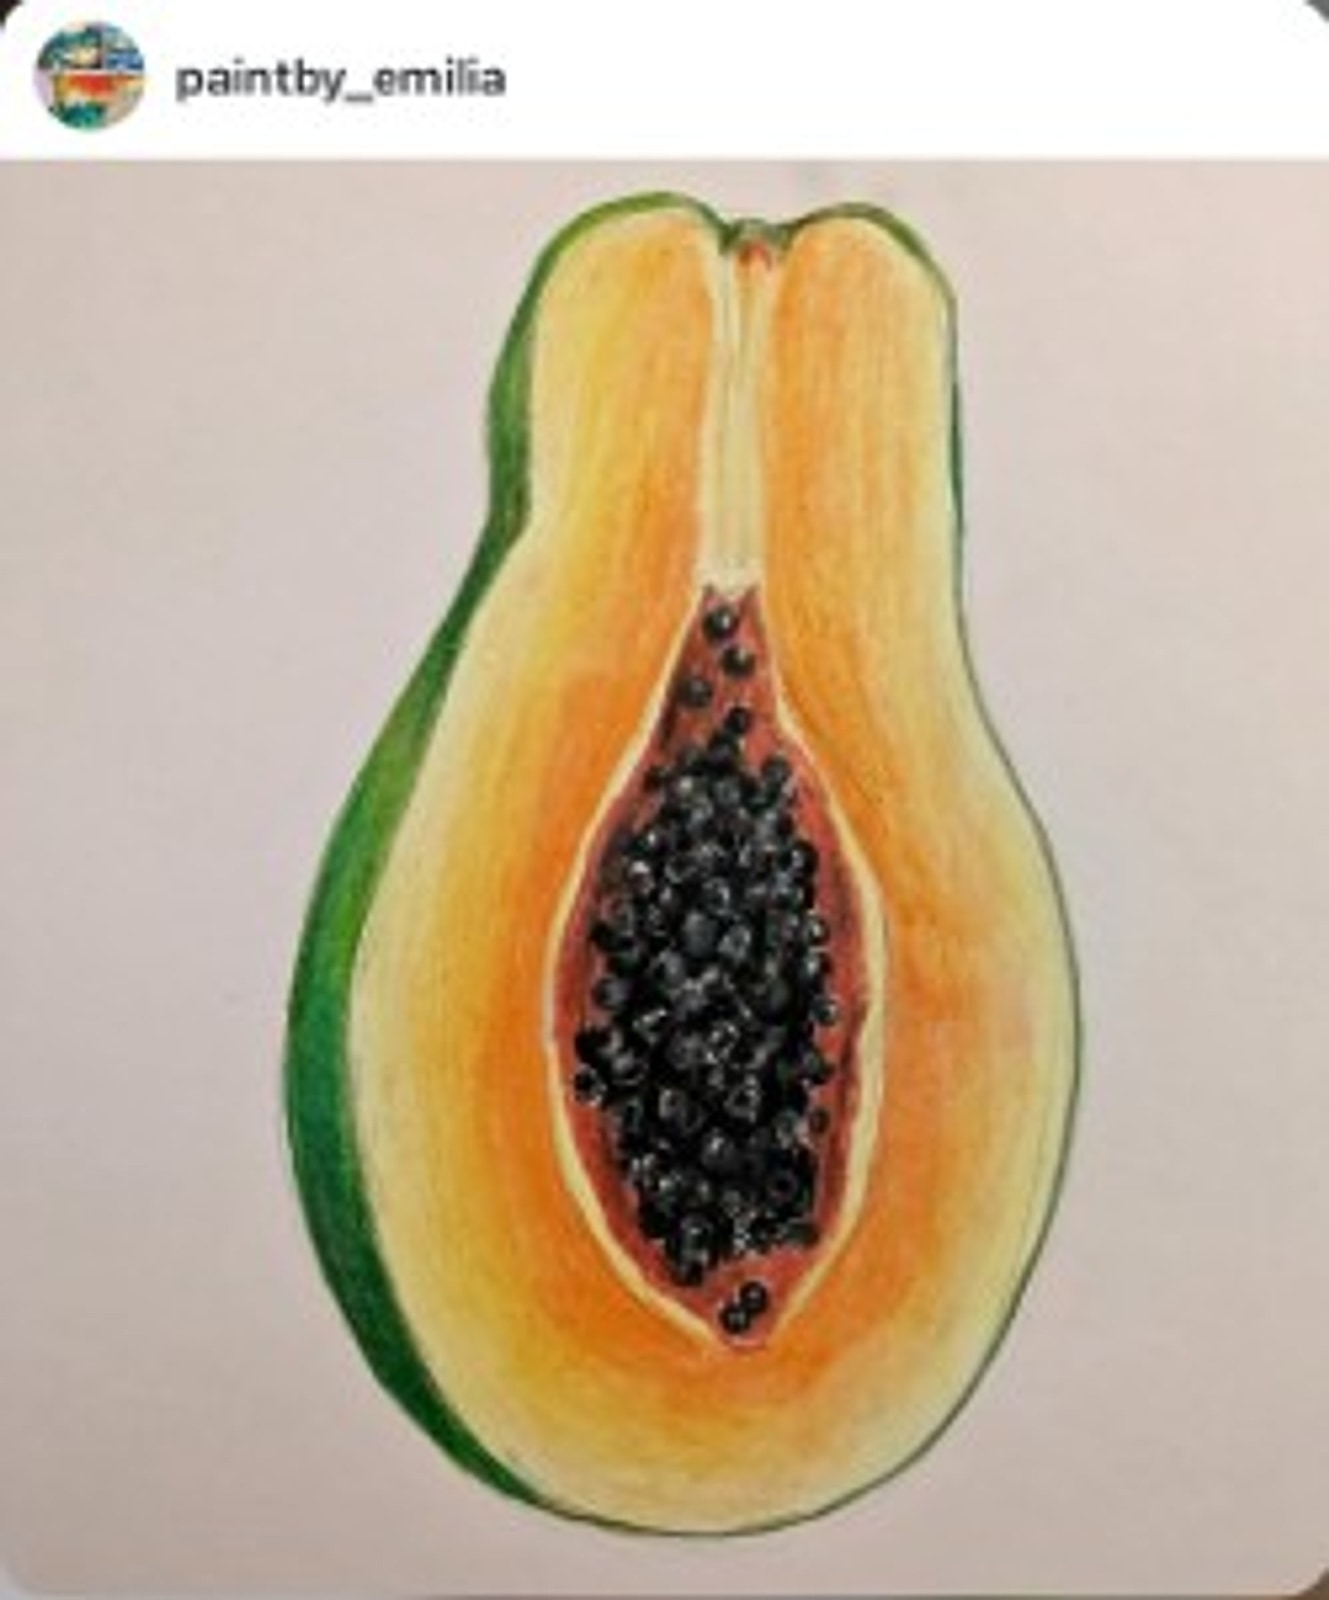
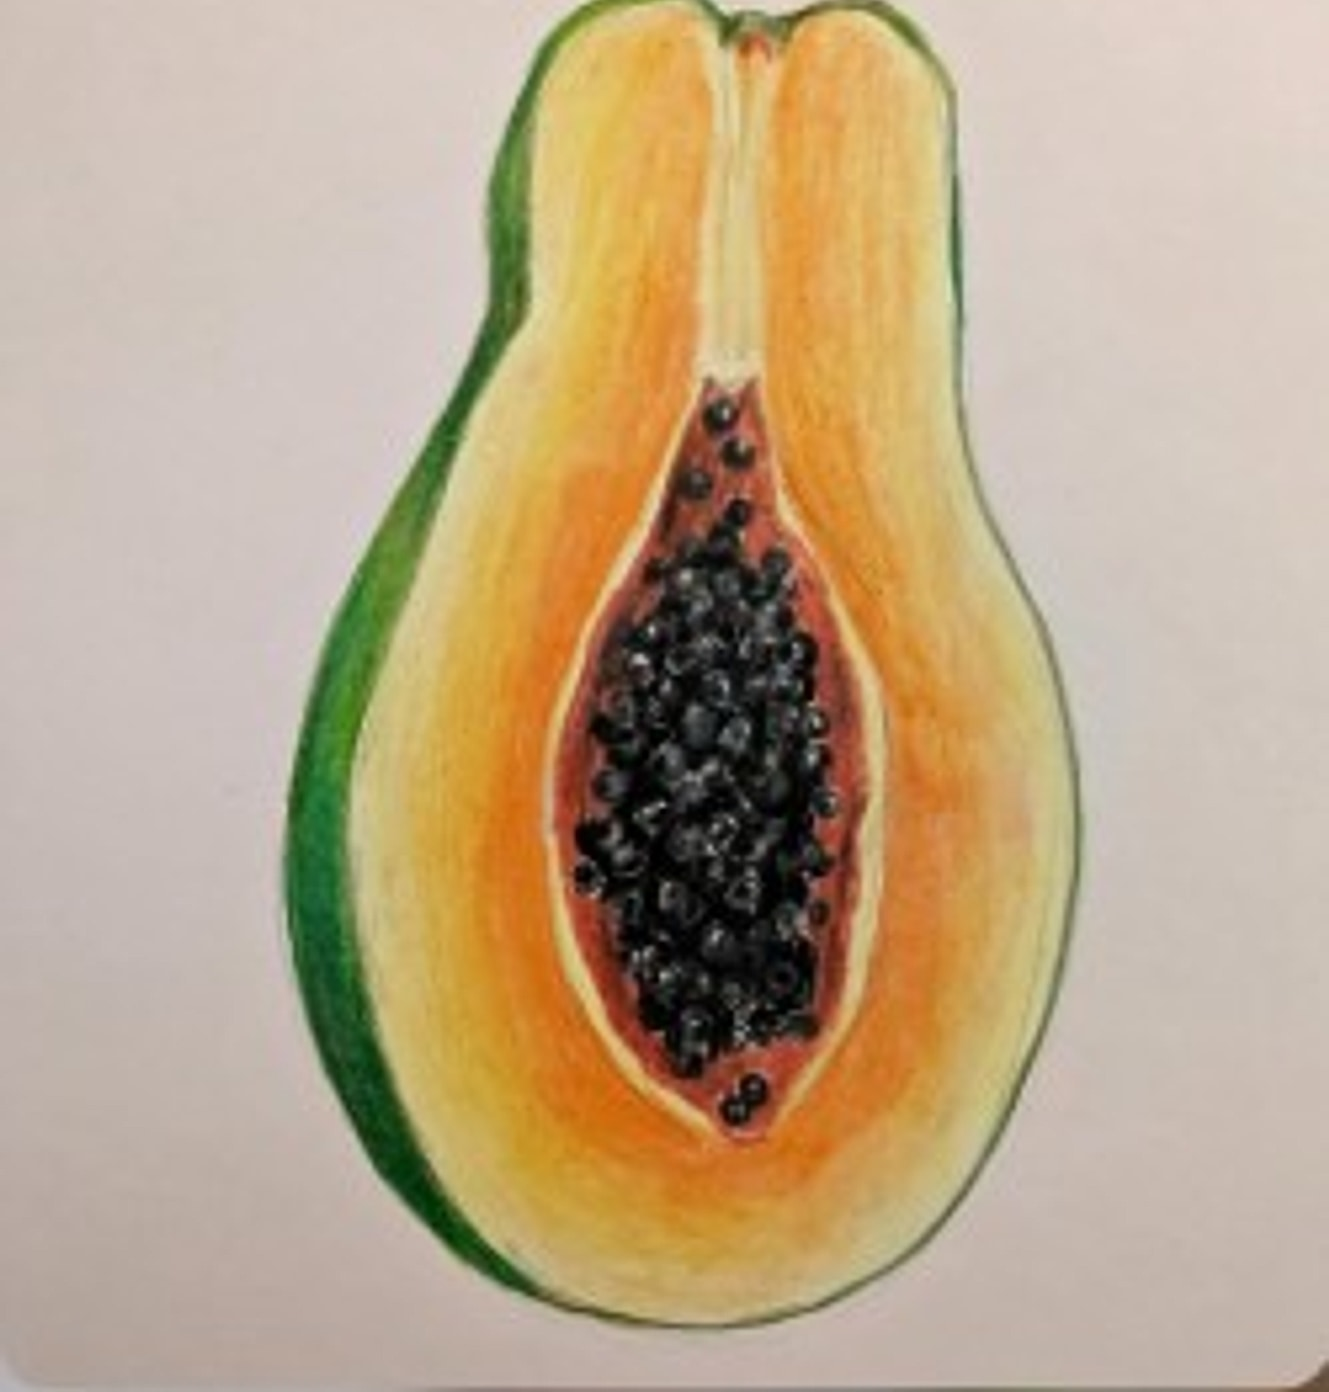
Dedupe folders, drop Stamps, dissolve Paintings/Objects, crop IG strips
- No piece appears twice inside the same folder anymore. The cover image
  is rendered as the tile itself; the inside list contains the OTHER
  pieces only.
- Removed work-005 (Stamps) entirely — file deleted, no entry.
- Dissolved "Paintings" folder. Fuji-pink, Volcano, Studio-in-oil,
  Tree-of-roots and Sunset-block are now five standalone tiles.
- Dissolved "Objects & Mixed Media" folder. Reclining-figure, Red-yarn,
  Marbled-pattern, Doll-by-the-harbour and Lion-door are now five
  standalone tiles.
- Walnuts: confirmed they are NOT in Still Life (own folder).
- Cropped work-022 (Papaya) and work-023 (Campari) by ~13% from the
  top to remove the "paintby_emilia" Instagram username strip so they
  no longer read as screenshots.

Layout now: Hauptwerk (Hikikomori) + 7 themed folders + 13 standalones.

diff --git a/src/data/works.ts b/src/data/works.ts
@@ -1,9 +1,10 @@
 /**
- * Artwork catalogue — everything organised into clickable folders.
+ * Artwork catalogue. No duplicates inside a folder. Hauptwerk +
+ * themed folders + standalone tiles for the looser-themed pieces.
  *
- * Hero/Hauptwerk uses /artwork/hikikomori.jpg (kept at 1440×1920).
- * All other images live under /artwork/works/ and are sourced from
- * scripts/extract-attachments.mjs (user pastes only).
+ * All images live under /artwork/works/ (user pastes, upscaled to
+ * ~1200×1600 by scripts/upscale-works.mjs), except the Hauptwerk
+ * cover /artwork/hikikomori.jpg which is the 1440×1920 IG-CDN pull.
  */
 
 export type Item = {
@@ -37,7 +38,10 @@ export type Series = {
 export type Entry = Work | Series;
 
 export const entries: Entry[] = [
-  // ── 01 · HAUPTWERK — Hikikomori ───────────────────────────────────────
+  // ── HAUPTWERK — Hikikomori ────────────────────────────────────────────
+  // Cover = the high-res IG canvas. The folder shows context shots only
+  // (close-up, on the easel, detail, on the street). No duplicate of
+  // the cover image inside.
   {
     kind: "series",
     id: "hikikomori",
@@ -47,16 +51,16 @@ export const entries: Entry[] = [
     size: "featured",
     cover: "/artwork/hikikomori.jpg",
     items: [
-      { src: "/artwork/hikikomori.jpg", title: "Hikikomori — canvas" },
-      { src: "/artwork/works/work-050.jpg", title: "Close-up · brush strokes" },
       { src: "/artwork/works/work-052.jpg", title: "Full canvas, on easel" },
+      { src: "/artwork/works/work-050.jpg", title: "Close-up · brush strokes" },
       { src: "/artwork/works/work-051.jpg", title: "Studio · angle" },
       { src: "/artwork/works/work-053.jpg", title: "Detail" },
       { src: "/artwork/works/work-054.jpg", title: "On the street" },
     ],
   },
 
-  // ── 02 · LOUVRE + COLLAGE — statues with collage interventions ────────
+  // ── LOUVRE + COLLAGE ──────────────────────────────────────────────────
+  // Cover = Venus pink. No duplicate Venus inside.
   {
     kind: "series",
     id: "louvre",
@@ -67,13 +71,14 @@ export const entries: Entry[] = [
     cover: "/artwork/works/work-025.jpg",
     badge: "Available as print",
     items: [
-      { src: "/artwork/works/work-025.jpg", title: "Venus, pink" },
       { src: "/artwork/works/work-058.jpg", title: "Cupid, gold" },
-      { src: "/artwork/works/work-057.jpg", title: "Venus, pink · variant" },
+      { src: "/artwork/works/work-057.jpg", title: "Venus, alt angle" },
     ],
   },
 
-  // ── 03 · DRAWINGS & STUDIES — life drawing + Louvre studies ───────────
+  // ── DRAWINGS & STUDIES ────────────────────────────────────────────────
+  // Cover = bearded sculpture (work-033). Cover is intentionally omitted
+  // from the inside list to avoid duplication.
   {
     kind: "series",
     id: "drawings",
@@ -83,7 +88,6 @@ export const entries: Entry[] = [
     size: "tall",
     cover: "/artwork/works/work-033.jpg",
     items: [
-      { src: "/artwork/works/work-033.jpg", title: "Bearded sculpture" },
       { src: "/artwork/works/work-032.jpg", title: "Head with curls" },
       { src: "/artwork/works/work-035.jpg", title: "Apollo, three-quarter" },
       { src: "/artwork/works/work-034.jpg", title: "Profile, red" },
@@ -96,7 +100,8 @@ export const entries: Entry[] = [
     ],
   },
 
-  // ── 04 · TRAVEL POSTCARDS — country panels ────────────────────────────
+  // ── TRAVEL POSTCARDS ──────────────────────────────────────────────────
+  // Cover = Japan panels. Inside list excludes the cover.
   {
     kind: "series",
     id: "travel",
@@ -106,7 +111,6 @@ export const entries: Entry[] = [
     size: "wide",
     cover: "/artwork/works/work-015.jpg",
     items: [
-      { src: "/artwork/works/work-015.jpg", title: "Japan" },
       { src: "/artwork/works/work-012.jpg", title: "Brazil · Rio" },
       { src: "/artwork/works/work-014.jpg", title: "New York · Jazz" },
       { src: "/artwork/works/work-016.jpg", title: "Paris" },
@@ -116,7 +120,8 @@ export const entries: Entry[] = [
     ],
   },
 
-  // ── 05 · TYPOGRAPHY & PATTERN ─────────────────────────────────────────
+  // ── TYPOGRAPHY & PATTERN ──────────────────────────────────────────────
+  // Cover = FACE. Inside list excludes the cover.
   {
     kind: "series",
     id: "typography",
@@ -126,7 +131,6 @@ export const entries: Entry[] = [
     size: "square",
     cover: "/artwork/works/work-010.jpg",
     items: [
-      { src: "/artwork/works/work-010.jpg", title: "FACE" },
       { src: "/artwork/works/work-009.jpg", title: "AAAA?" },
       { src: "/artwork/works/work-011.jpg", title: "LOVE" },
       { src: "/artwork/works/work-006.jpg", title: "Pattern, blue" },
@@ -134,7 +138,8 @@ export const entries: Entry[] = [
     ],
   },
 
-  // ── 06 · STILL LIFE — fruit + objects ─────────────────────────────────
+  // ── STILL LIFE — no walnuts (those have their own folder) ────────────
+  // Cover = apple/grapes/pear. Inside list excludes the cover.
   {
     kind: "series",
     id: "still-life",
@@ -144,7 +149,6 @@ export const entries: Entry[] = [
     size: "tall",
     cover: "/artwork/works/work-040.jpg",
     items: [
-      { src: "/artwork/works/work-040.jpg", title: "Apple, grapes, pear" },
       { src: "/artwork/works/work-046.jpg", title: "Pears" },
       { src: "/artwork/works/work-003.jpg", title: "Blueberries" },
       { src: "/artwork/works/work-004.jpg", title: "Half a lemon" },
@@ -155,7 +159,8 @@ export const entries: Entry[] = [
     ],
   },
 
-  // ── 07 · CATS ─────────────────────────────────────────────────────────
+  // ── CATS ──────────────────────────────────────────────────────────────
+  // Cover = Chinese-text ramen cat. Inside list excludes the cover.
   {
     kind: "series",
     id: "cats",
@@ -164,83 +169,136 @@ export const entries: Entry[] = [
     year: "2024 — 2025",
     size: "square",
     cover: "/artwork/works/work-001.jpg",
-    items: [
-      { src: "/artwork/works/work-001.jpg", title: "你能读一下这个吗?" },
-      { src: "/artwork/works/work-002.jpg", title: "Cat, from behind" },
-    ],
+    items: [{ src: "/artwork/works/work-002.jpg", title: "Cat, from behind" }],
   },
 
-  // ── 08 · WALNUTS — object studies ─────────────────────────────────────
+  // ── WALNUTS ───────────────────────────────────────────────────────────
+  // Cover = first walnut composition. Inside list excludes the cover.
   {
     kind: "series",
     id: "walnuts",
     title: "Walnuts",
-    category: "Object",
+    category: "Object · Study",
     year: "2025",
     size: "square",
     cover: "/artwork/works/work-045.jpg",
     items: [
-      { src: "/artwork/works/work-045.jpg", title: "Walnut composition" },
       { src: "/artwork/works/work-047.jpg", title: "Walnut composition · 2" },
       { src: "/artwork/works/work-048.jpg", title: "Blue walnuts" },
       { src: "/artwork/works/work-056.jpg", title: "Walnut · detail" },
     ],
   },
 
-  // ── 09 · OBJECTS & MIXED MEDIA — sculptural / photographic works ──────
+  // ── STANDALONE WORKS — formerly "Paintings" and "Objects & Mixed Media"
+  // folders, now broken out into individual tiles per request.
   {
-    kind: "series",
-    id: "objects",
-    title: "Objects & Mixed Media",
-    category: "Clay · Photography · Mixed",
-    year: "2024 — 2025",
-    size: "square",
-    cover: "/artwork/works/work-038.jpg",
-    items: [
-      { src: "/artwork/works/work-038.jpg", title: "Reclining figure" },
-      { src: "/artwork/works/work-041.jpg", title: "Red yarn" },
-      { src: "/artwork/works/work-039.jpg", title: "Marbled pattern" },
-      { src: "/artwork/works/work-036.jpg", title: "Doll by the harbour" },
-      { src: "/artwork/works/work-028.jpg", title: "Lion door · Vienna" },
-    ],
-  },
-
-  // ── 10 · PAINTINGS — small canvases & abstract ────────────────────────
-  {
-    kind: "series",
-    id: "paintings",
-    title: "Paintings",
-    category: "Acrylic · Oil",
-    year: "2024 — 2025",
+    kind: "work",
+    src: "/artwork/works/work-044.jpg",
+    title: "Fuji, pink",
+    category: "Acrylic · Japan",
+    year: "2025",
     size: "wide",
-    cover: "/artwork/works/work-044.jpg",
-    items: [
-      { src: "/artwork/works/work-044.jpg", title: "Fuji, pink" },
-      { src: "/artwork/works/work-008.jpg", title: "Volcano" },
-      { src: "/artwork/works/work-043.jpg", title: "Studio, in oil" },
-      { src: "/artwork/works/work-024.jpg", title: "Tree of roots" },
-      { src: "/artwork/works/work-055.jpg", title: "Sunset block · 3D" },
-    ],
+  },
+  {
+    kind: "work",
+    src: "/artwork/works/work-008.jpg",
+    title: "Volcano",
+    category: "Acrylic",
+    year: "2024",
+    size: "square",
+  },
+  {
+    kind: "work",
+    src: "/artwork/works/work-043.jpg",
+    title: "Studio, in oil",
+    category: "Oil · Abstract",
+    year: "2025",
+    size: "tall",
+  },
+  {
+    kind: "work",
+    src: "/artwork/works/work-024.jpg",
+    title: "Tree of roots",
+    category: "Mixed media",
+    year: "2024",
+    size: "square",
+  },
+  {
+    kind: "work",
+    src: "/artwork/works/work-055.jpg",
+    title: "Sunset block",
+    category: "Acrylic + 3D paint",
+    year: "2025",
+    size: "tall",
+  },
+  {
+    kind: "work",
+    src: "/artwork/works/work-038.jpg",
+    title: "Reclining figure",
+    category: "Clay · Mixed media",
+    year: "2025",
+    size: "square",
+  },
+  {
+    kind: "work",
+    src: "/artwork/works/work-041.jpg",
+    title: "Red yarn",
+    category: "Object",
+    year: "2025",
+    size: "square",
+  },
+  {
+    kind: "work",
+    src: "/artwork/works/work-039.jpg",
+    title: "Marbled pattern",
+    category: "Marbling",
+    year: "2025",
+    size: "square",
+  },
+  {
+    kind: "work",
+    src: "/artwork/works/work-036.jpg",
+    title: "Doll by the harbour",
+    category: "Photography",
+    year: "2024",
+    size: "tall",
+  },
+  {
+    kind: "work",
+    src: "/artwork/works/work-028.jpg",
+    title: "Lion door",
+    category: "Photography · Vienna",
+    year: "2024",
+    size: "square",
   },
 
-  // ── 11 · SKETCHBOOK — coloured pencil + comic ─────────────────────────
+  // ── SKETCHBOOK (small mixed group) ───────────────────────────────────
   {
-    kind: "series",
-    id: "sketchbook",
-    title: "Sketchbook",
+    kind: "work",
+    src: "/artwork/works/work-021.jpg",
+    title: "Girl in red",
+    category: "Coloured pencil",
+    year: "2024",
+    size: "tall",
+  },
+  {
+    kind: "work",
+    src: "/artwork/works/work-037.jpg",
+    title: "Lemon picking",
+    category: "Coloured pencil",
+    year: "2024",
+    size: "tall",
+  },
+  {
+    kind: "work",
+    src: "/artwork/works/work-029.jpg",
+    title: "Sea turtle",
     category: "Coloured pencil",
     year: "2024",
     size: "square",
-    cover: "/artwork/works/work-021.jpg",
-    items: [
-      { src: "/artwork/works/work-021.jpg", title: "Girl in red" },
-      { src: "/artwork/works/work-037.jpg", title: "Lemon picking" },
-      { src: "/artwork/works/work-029.jpg", title: "Sea turtle" },
-      { src: "/artwork/works/work-005.jpg", title: "Stamps" },
-    ],
   },
 ];
 
 export const totalPieces = entries.reduce((n, e) => {
-  return n + (e.kind === "series" ? e.items.length : 1);
+  return n + (e.kind === "series" ? e.items.length + 1 : 1); // +1 counts the cover
 }, 0);